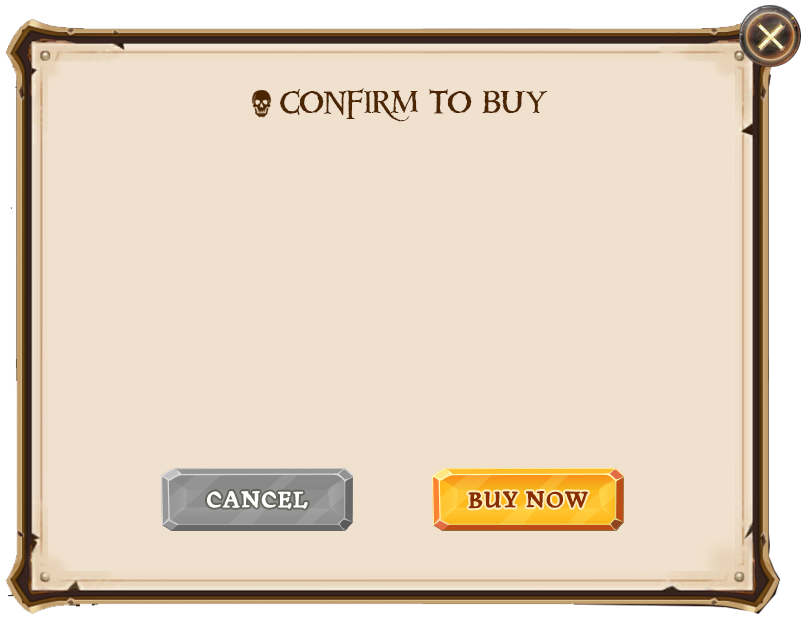
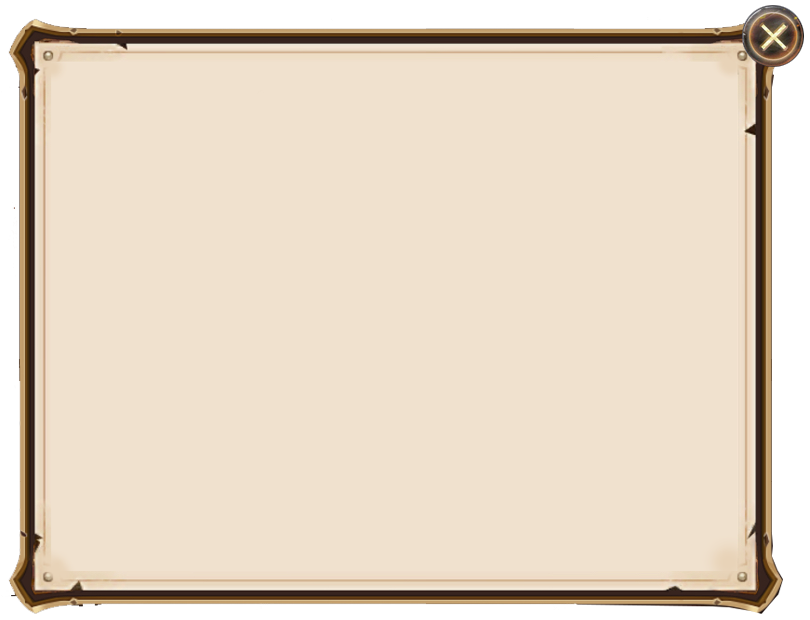
修改NaN

diff --git a/pirate-pro/src/components/template/common/bigpopup/BigPopup.vue b/pirate-pro/src/components/template/common/bigpopup/BigPopup.vue
@@ -14,20 +14,23 @@
 		</div>
   	</div>
 	<div v-show="bigpopupBuymsg.confirmbuycard" class="confirmbuycard">
+		<div class="confirmtitle"><div class="ghost"></div><div>{{$t("message.game_title_confirmpurchase")}}</div></div>
 		<div class="known">{{bigpopupBuymsg.player == 1?$t("message.confirm1"):(bigpopupBuymsg.player == 2?$t("message.confirm2"):$t("message.confirm3"))}}<br/>{{$t("message.confirmbuy")}}</div>
 		<div class="price"><div>{{confirm_price}}ETH</div></div>
-		<div class="cancelbtn" @click="closepopup"></div>
-		<div class="nextbtn" @click="buycard"></div>
+		<div class="cancelbtn" @click="closepopup"><p>{{$t("message.cancel")}}</p></div>
+		<div class="nextbtn" @click="buycard"><p>{{$t("message.ok")}}</p></div>
 	</div>
 	<div v-show="bigpopupBuymsg.myassets" class="myassets">
+		<div class="myassetstitle"><div class="ghost"></div><div>{{$t("message.game_title_myassets")}}</div></div>
 		<div class="captain1" v-bind:class="{'hidemycard':!mycaptain1.length}"><div><div>{{mycaptain1.length}}</div></div></div>
 		<div class="captain2" v-bind:class="{'hidemycard':!mycaptain2.length}"><div><div>{{mycaptain2.length}}</div></div></div>
 		<div class="captain3" v-bind:class="{'hidemycard':!mycaptain3.length}"><div><div>{{mycaptain3.length}}</div></div></div>
 	</div>
 	<div v-show="bigpopupBuymsg.setnickname" class="setnickname">
+		<div class="setnicktitle"><div class="ghost"></div><div>{{$t("message.game_text_setname")}}</div></div>
 		<input class="inputname" type="text" maxlength="16" v-bind:placeholder="alertplaceholder" ref="inputname" @focus="clearplace"/>
-		<div class="cancelbtn" @click="closepopup"></div>
-		<div class="nextbtn" @click="changenickname"></div>
+		<div class="cancelbtn" @click="closepopup"><p>{{$t("message.cancel")}}</p></div>
+		<div class="nextbtn" @click="changenickname"><p>{{$t("message.ok")}}</p></div>
 	</div>	  	
   </div>
 </template>
@@ -180,6 +183,7 @@ export default {
 	.close:hover{
 		cursor: pointer;
 	}
+
 	.buycard{
 		width: 100%;
 		height: 100%;
@@ -194,15 +198,15 @@ export default {
 		left: 10%;
 	}
 	.role.role1{
-		background:url("../../../../assets/player1.png") center center no-repeat;
+		background:url("../../../../assets/myplayer1.png") center center no-repeat;
 		background-size: 100% 100%;
 	}
 	.role.role2{
-		background:url("../../../../assets/player2.png") center center no-repeat;
-		background-size: 107% 100%;
+		background:url("../../../../assets/myplayer2.png") center center no-repeat;
+		background-size: 100% 100%;
 	}
 	.role.role3{
-		background:url("../../../../assets/player3.png") center center no-repeat;
+		background:url("../../../../assets/myplayer3.png") center center no-repeat;
 		background-size: 100% 100%;
 	}
 	.introduce{
@@ -367,6 +371,29 @@ export default {
 		background: url("../../../../assets/bigpopup2.png") center center no-repeat;
 		background-size: 100% 100%;
 	}
+
+	.confirmtitle{
+		width: 100%;
+		height: 26px;
+		font-size: 26px;
+		color: rgb(76,38,2);
+    	position: relative;
+    	top: 13%;
+    	display: flex;
+    	justify-content: center;
+	}
+	.ghost{
+		width: 5%;
+		height: 100%;
+		background:url("../../../../assets/ghost.png") center center no-repeat;
+		background-size: contain; 
+		float: left;
+		display: flex;
+	}
+	.ghost+div{
+		float: left;
+		display: flex;
+	}
 	.known{
 		width: 100%;
 		height: 27.4%;
@@ -400,19 +427,46 @@ export default {
 		float: left;
 		position: relative;
 		top: 37.4%;
+		font-size:20px;
+		color: #fff;
+		text-align: center;
+		display: table;
+	}
+	.cancelbtn>p,.nextbtn>p{
+		display: table-cell;
+		vertical-align: middle;
 	}
 	.cancelbtn{
 		margin: 0 10% 0 19.9%;
+		background:url("../../../../assets/cancelbtn.png") center center no-repeat;
+		background-size: contain; 
 	}
 	.cancelbtn:hover,.nextbtn:hover{
 		cursor: pointer;
+	}
+	.nextbtn{
+		background:url("../../../../assets/okbtn.png") center center no-repeat;
+		background-size: contain; 
+	}
+	.nextbtn>p{
+		color: rgb(135,45,0);
 	}
 	/*我的卡牌弹窗样式*/
 	.myassets{
 		width: 100%;
 		height: 100%;
-		background: url("../../../../assets/bigpopup3.png") center center no-repeat;
+		background: url("../../../../assets/bigpopup2.png") center center no-repeat;
 		background-size: 100% 100%;
+	}
+	.myassetstitle{
+		width: 100%;
+		height: 26px;
+		font-size: 26px;
+		color: rgb(76,38,2);
+    	position: relative;
+    	top: 13%;
+    	display: flex;
+    	justify-content: center;
 	}
 	.captain1,.captain2,.captain3{
 		width: 29%;
@@ -422,15 +476,15 @@ export default {
 		position: relative;
 		top: 20%;
 		left: 5%;
-		background: url("../../../../assets/player1.png") center 0 no-repeat;
+		background: url("../../../../assets/myplayer1.png") center 0 no-repeat;
 		background-size: 100% 100%;
 	}
 	.captain2{
-		background: url("../../../../assets/player2.png") center 0 no-repeat;
+		background: url("../../../../assets/myplayer2.png") center 0 no-repeat;
 		background-size: 107% 100%;
 	}
 	.captain3{
-		background: url("../../../../assets/player3.png") -5px 0 no-repeat;
+		background: url("../../../../assets/myplayer3.png") -5px 0 no-repeat;
 		background-size: 100% 100%;
 	}
 	.captain1>div,.captain2>div,.captain3>div{
@@ -453,8 +507,18 @@ export default {
 	.setnickname{
 		width: 100%;
 		height: 100%;
-		background: url("../../../../assets/bigpopup4.png") center center no-repeat;
+		background: url("../../../../assets/bigpopup2.png") center center no-repeat;
 		background-size: 100% 100%;
+	}
+	.setnicktitle{
+		width: 100%;
+		height: 26px;
+		font-size: 26px;
+		color: rgb(76,38,2);
+    	position: relative;
+    	top: 13%;
+    	display: flex;
+    	justify-content: center;
 	}
 	.inputname{
 		width: 51%;
@@ -466,12 +530,15 @@ export default {
 	    left: -1.2%;
 	    outline: none;
 	    border: 0;
-	    background: transparent;
+	    background:url("../../../../assets/input.png") center center no-repeat;
+	    background-size: 100% 100%;
 	    color: rgb(119,93,71);
+	    padding-left: 2px;
 	}
 	.setnickname .cancelbtn,.setnickname .nextbtn{
 		position: relative;
-		top: 66.5%;
+		top: 60%;
 	}
+
 </style>
 

diff --git a/pirate-pro/src/util/service.js b/pirate-pro/src/util/service.js
@@ -114,24 +114,37 @@ service.init = function(){
 	}
 	CaptainSellInstance.getCaptainCount(3,function(error,result){
 		if(!error){
-			console.log(result);
-			store.state.cardarr[0].soldamount = store.state.cardarr[0].totalamount - result.toString();
+			console.log("售出结果3",result);
+			if(isNaN(parseFloat(result))){
+				store.state.cardarr[0].soldamount = "-";
+			}else{
+				store.state.cardarr[0].soldamount = isNaN(store.state.cardarr[0].totalamount - parseFloat(result))?"-":store.state.cardarr[0].totalamount - parseFloat(result);
+			}
 		}else{
 			console.log(error);
 		}
 	})
 	CaptainSellInstance.getCaptainCount(5,function(error,result){
 		if(!error){
-			console.log(result);
-			store.state.cardarr[1].soldamount = store.state.captain[1].totalcount - result.toString();
+			console.log("售出结果5",result);
+			if(isNaN(parseFloat(result))){
+				store.state.cardarr[1].soldamount = "-";
+			}else{
+				store.state.cardarr[1].soldamount = isNaN(store.state.cardarr[1].totalamount - parseFloat(result))?"-":store.state.cardarr[1].totalamount - parseFloat(result);
+			}
 		}else{
 			console.log(error);
 		}
 	})
 	CaptainSellInstance.getCaptainCount(6,function(error,result){
 		if(!error){
-			console.log(result);
-			store.state.cardarr[2].soldamount = store.state.captain[2].totalcount - result.toString();
+			console.log("售出结果6",result);
+			
+			if(isNaN(parseFloat(result))){
+				store.state.cardarr[2].soldamount = "-";
+			}else{
+				store.state.cardarr[2].soldamount = isNaN(store.state.cardarr[2].totalamount - parseFloat(result))?"-":store.state.cardarr[2].totalamount - parseFloat(result);
+			}
 		}else{
 			console.log(error);
 		}

diff --git a/pirate-pro/src/components/template/Presale.vue b/pirate-pro/src/components/template/Presale.vue
@@ -16,6 +16,7 @@
           <li v-for="(carditem,index) in carditems">
             <div class="soldamount">{{$t("message.left")}} : {{carditem.soldamount}}/{{carditem.totalamount}}</div>
             <div @mouseenter="light($event)" @mouseleave="none($event)" @click="detail(index + 1)"><div></div></div>
+            <div class="attack">{{$store.state.captain[index].attack}}</div><div class="defense">{{$store.state.captain[index].defense}}</div>
           </li>
         </ul>
         <ul class="prebtn" :style="{'height':btnheight}">
@@ -399,6 +400,27 @@ export default {
   color: rgb(255,186,123);
   padding-top: 5%;
   box-sizing: border-box;
+}
+.preplayer li div.attack,.preplayer li div.defense{
+  width: 16%;
+  height: 4.3%;
+  margin: 0;
+  top: -16.5%;
+  left: 23%;
+  float: left;
+  color: rgb(222,178,94);
+}
+.preplayer li div.defense{
+  left:51%;
+}
+.preplayer li:nth-child(3) div.attack,.preplayer li:nth-child(3) div.defense{
+  top: -17%;
+}
+.preplayer li:nth-child(3) div.attack{
+  left: 22%;
+}
+.preplayer li:nth-child(3) div.defense{
+  left: 50%;
 }
 .introduce-pots{
   width: 100%;

diff --git a/pirate-pro/src/i18n/lang/en.js b/pirate-pro/src/i18n/lang/en.js
@@ -47,5 +47,10 @@ module.exports = {
 		plancontext3line3: "3. Battle system",
 		plancontext3line4: "4. Alliance system",
 		plancontext3line5: "5. Alliance betting",
+		cancel: "CANCEL",
+		ok: "OK",
+		game_title_confirmpurchase: "CONFIRM TO PURCHASE",
+		game_text_setname: "SET YOUR DISPLAY NAME",
+		game_title_myassets: "My Assets",
 	}
 }

diff --git a/pirate-pro/src/i18n/lang/zhCH.js b/pirate-pro/src/i18n/lang/zhCH.js
@@ -47,5 +47,10 @@ module.exports = {
 		plancontext3line3: "3. 海洋竞技场",
 		plancontext3line4: "4. 联盟功勋战",
 		plancontext3line5: "5. 联盟幸运猜",
+		cancel: "取消",
+		ok: "确定",
+		game_title_confirmpurchase: "确认购买",
+		game_text_setname: "设置你的昵称",
+		game_title_myassets: "我的背包",
 	}
 }
